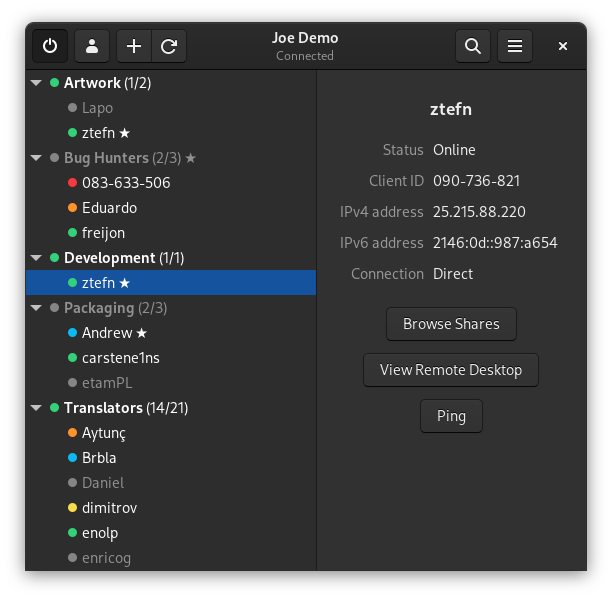
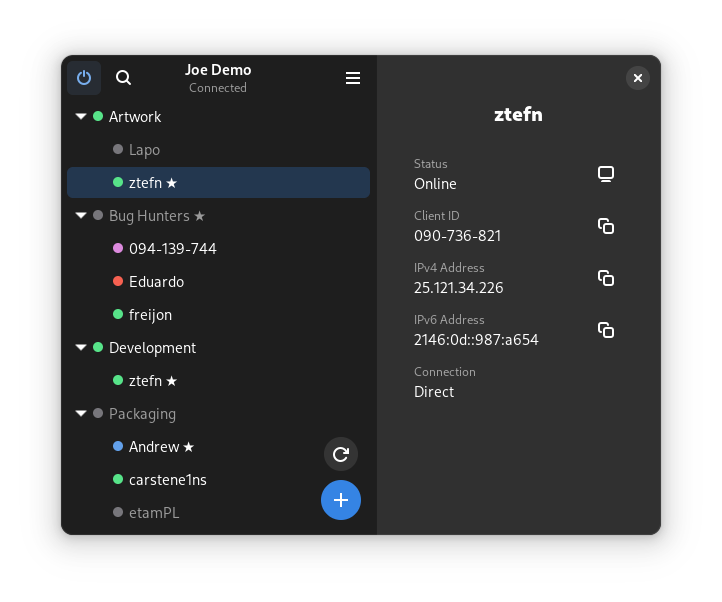
Add release 1.5.0

diff --git a/_posts/2024-07-20-release150.md b/_posts/2024-07-20-release150.md
@@ -1,0 +1,49 @@
+---
+title: Haguichi 1.5.0 Released
+date: 2024-07-20T14:00:00+0200
+author: ztefn
+layout: post
+permalink: /news/release150/
+tags: ['15', commands, indicator, keyboard-shortcut, notifications, porting, release, translation]
+---
+Haguichi 1.5.0 has been rebuild completely from the ground up featuring a redesigned user interface that takes advantage of <a href="https://docs.gtk.org/gtk4/" target="_blank">GTK 4</a> and <a href="https://gnome.pages.gitlab.gnome.org/libadwaita/" target="_blank">libadwaita</a>. The main window flaunts an <a href="https://gnome.pages.gitlab.gnome.org/libadwaita/doc/main/class.OverlaySplitView.html" target="_blank">AdwOverlaySplitView</a> to display the network list and sidebar alongside each other or the sidebar as an overlay when the available width is very small. The sidebar itself received an improved layout based on <a href="https://gnome.pages.gitlab.gnome.org/libadwaita/doc/main/class.ActionRow.html" target="_blank">AdwActionRows</a>.
+
+
+Furthermore, this version gained support for <a href="https://gnome.pages.gitlab.gnome.org/libadwaita/doc/main/property.StyleManager.color-scheme.html" target="_blank">color schemes</a>, offering the choice between dark (the current default) and light color schemes or to dynamically follow the system preferred color scheme.
+
+{% include slider.html align="center" position="68" width="722" height="602" image1_src="/resources/150-main-window-connected-dark.png" image1_srcset="/resources/150-main-window-connected-dark-2x.png 2x" image1_alt="Dark" image2_src="/resources/150-main-window-connected-light.png" image2_srcset="/resources/150-main-window-connected-light-2x.png 2x" image2_alt="Light" caption="Dark and light color schemes." %}
+
+## Network List
+
+The network list has been ported from the deprecated <a href="https://docs.gtk.org/gtk4/class.TreeView.html" target="_blank">GtkTreeView</a> to the newfangled <a href="https://docs.gtk.org/gtk4/class.ListView.html" target="_blank">GtkListView</a>. Buttons to refresh the network list and add networks are now overlaid in the bottom right corner.
+
+When you search the network list, it is now possible to use multiple search terms by separating them with a <kbd>⎵</kbd> (space) or <kbd>+</kbd> (plus sign) in order to find only results matching **both** terms and by using a <kbd>,</kbd> (comma) to find results matching **either** term. If no results are found, a friendly message is now displayed instead of an empty network list.
+
+## Preferences
+
+Preferences are now implemented using <a href="https://gnome.pages.gitlab.gnome.org/libadwaita/doc/main/class.PreferencesWindow.html" target="_blank">AdwPreferencesWindow</a>, making all options searchable as well. Additionally, more actions regarding the Hamachi configuration have been moved to the preferences window, like changing the nickname and saving or restoring backups. In here you will also find the fancy new style selector to choose your desired color scheme.
+
+Commands can now be easily reordered using drag and drop. And when you create or edit a command, you can press an info button to display all command variables that you can use.
+
+<p class="center-text"><a class="button" href="/screenshots/#preferences">View preferences screenshots</a></p>
+
+## Quality of Life Enhancements
+
+* The online and total member count in the sidebar for selected networks now takes the client itself also into account.
+* Networks are now automatically selected immediately after you create or join them.
+* Hamachi is now automatically restarted if the `hamachi set-pass` command hangs when changing the network password.
+
+## Other Changes
+
+* Created new "Change Access" dialog for networks to set lock and approval mode combined.
+* Now making use of <a href="https://gnome.pages.gitlab.gnome.org/libadwaita/doc/main/class.Toast.html" target="_blank">Toasts</a> for any in-app notifications.
+* Utilized <a href="https://docs.gtk.org/gtk4/class.Builder.html#gtkbuilder-ui-definitions" target="_blank">GtkBuilder UI definitions</a> to describe nearly all interface objects and eliminate lots of boilerplate code.
+* Reimplemented indicator to communicate with the <a href="https://freedesktop.org/wiki/Specifications/StatusNotifierItem/" target="_blank"><abbr title="StatusNotifierItem">SNI</abbr> D-Bus interface</a> directly and drop dependency on appindicator libraries that <a href="https://github.com/AyatanaIndicators/libayatana-appindicator/issues/22" target="_blank">don't support GTK 4</a>.
+* Implemented <a href="https://libportal.org/class.Portal.html" target="_blank">XdpPortal</a> to request permission to run in the background and to set background status when doing so.
+* Renamed `--hidden` command line option to `--background` or `-b` for short.
+* Changed accelerator to open preferences to <kbd>Control</kbd>+<kbd>,</kbd> following the <a href="https://developer.gnome.org/hig/reference/keyboard.html" target="_blank">GNOME standard for keyboard shortcuts</a>.
+* Changed default network list update interval to 30 seconds.
+* Added support for <a href="http://facebook.github.io/zstd/" target="_blank"><abbr title="Zstandard">zstd</abbr></a> compressed tar archives when saving and restoring configuration backups.
+* Added line `StartupNotify=true` to .desktop file so that a spinning cursor is shown on launch.
+* Now using standard GLib functions for message logging so that important errors are written to the system logs.
+* Updated Brazilian Portuguese, Dutch, Japanese, Lithuanian, Spanish and Ukrainian translations.

diff --git a/tips-and-tricks.md b/tips-and-tricks.md
@@ -35,14 +35,6 @@ order: 5
   </tr>
   <tr>
     <td>
-      <code>--license</code>
-    </td>
-    <td>
-      Show license and exit
-    </td>
-  </tr>
-  <tr>
-    <td>
       <code>-d</code>, <code>--debug</code>
     </td>
     <td>
@@ -51,10 +43,10 @@ order: 5
   </tr>
   <tr>
     <td>
-      <code>--hidden</code>
+      <code>-b</code>, <code>--background</code>
     </td>
     <td>
-      Start with hidden window
+      Run in background
     </td>
   </tr>
   <tr>
@@ -120,7 +112,7 @@ order: 5
   </tr>
   <tr>
     <td>
-      <kbd>Ctrl</kbd>+<kbd>P</kbd>
+      <kbd>Ctrl</kbd>+<kbd>,</kbd>
     </td>
     <td>
       Show preferences
@@ -314,7 +306,7 @@ All available variables are:
 </table>
 
 <h3 id="customize-network-list">Customizing the Network List{% include anchor.html slug='customize-network-list' %}</h3>
-The possibilities on how to display the members in your network list are endless, because it’s template based. There are four templates (<b>member-template-large</b>, <b>member-template-small</b>, <b>network-template-large</b> and <b>network-template-small</b>). For markup you can use <a href="https://docs.gtk.org/Pango/pango_markup.html#pango-markup" target="_blank">Pango</a> (HTML like) syntax and for linebreaks simply use <strong>&lt;br&gt;</strong>. All available variables are:
+The possibilities on how to display the members in your network list are endless, because it’s template based. There are two templates, <b>member-template</b> and <b>network-template</b>. For markup you can use <a href="https://docs.gtk.org/Pango/pango_markup.html#pango-markup" target="_blank">Pango</a> (HTML like) syntax and for linebreaks simply use <strong>&lt;br&gt;</strong>. All available variables are:
 
 #### Network
 

diff --git a/_screenshots/main-window.md b/_screenshots/main-window.md
@@ -5,12 +5,12 @@ order: 1
 ---
 <div class="row">
   <div class="col">
-    <img src="/resources/main-window-connected-firstrun.png" srcset="/resources/main-window-connected-firstrun-2x.png 2x" alt="Main Window Connected Firstrun" width="612" height="599" tabindex="0" />
+    <img src="/resources/main-window-connected-firstrun.png" srcset="/resources/main-window-connected-firstrun-2x.png 2x" alt="Main Window Connected Firstrun" width="722" height="602" tabindex="0" />
   </div>
   <div class="col">
-    <img src="/resources/main-window-selected-member.png" srcset="/resources/main-window-selected-member-2x.png 2x" alt="Main Window Selected Member" width="612" height="599" tabindex="0" />
+    <img src="/resources/main-window-selected-member.png" srcset="/resources/main-window-selected-member-2x.png 2x" alt="Main Window Selected Member" width="722" height="602" tabindex="0" />
   </div>
   <div class="col">
-    <img src="/resources/main-window-selected-network.png" srcset="/resources/main-window-selected-network-2x.png 2x" alt="Main Window Selected Network" width="612" height="599" tabindex="0" />
+    <img src="/resources/main-window-selected-network.png" srcset="/resources/main-window-selected-network-2x.png 2x" alt="Main Window Selected Network" width="722" height="602" tabindex="0" />
   </div>
 </div>

diff --git a/_screenshots/preferences.md b/_screenshots/preferences.md
@@ -5,13 +5,13 @@ order: 2
 ---
 <div class="row">
   <div class="col">
-    <img src="/resources/preferences-general.png" srcset="/resources/preferences-general-2x.png 2x" alt="Preferences General Tab" width="521" height="424" tabindex="0" />
+    <img src="/resources/preferences-general.png" srcset="/resources/preferences-general-2x.png 2x" alt="Preferences General Tab" width="762" height="698" tabindex="0" />
   </div>
   <div class="col">
-    <img src="/resources/preferences-commands.png" srcset="/resources/preferences-commands-2x.png 2x" alt="Preferences Commands Tab" width="521" height="424" tabindex="0" />
+    <img src="/resources/preferences-commands.png" srcset="/resources/preferences-commands-2x.png 2x" alt="Preferences Commands Tab" width="762" height="698" tabindex="0" />
   </div>
   <div class="col">
-    <img src="/resources/preferences-desktop.png" srcset="/resources/preferences-desktop-2x.png 2x" alt="Preferences Desktop Tab" width="521" height="424" tabindex="0" />
+    <img src="/resources/preferences-desktop.png" srcset="/resources/preferences-desktop-2x.png 2x" alt="Preferences Desktop Tab" width="762" height="698" tabindex="0" />
   </div>
 </div>
 

diff --git a/_sections/haguichi.md b/_sections/haguichi.md
@@ -7,8 +7,8 @@ order: 1
 <p>Haguichi is free and open source software licensed under <a href="https://www.gnu.org/licenses/gpl-3.0.html" target="_blank">GPLv3</a>. Written in <a href="https://vala.dev" target="_blank">Vala</a> and using <a href="https://www.gtk.org" target="_blank">GTK</a> as widget toolkit, Haguichi provides a user friendly <abbr title="Graphical user interface">GUI</abbr> to control the <a href="https://vpn.net" target="_blank">Hamachi</a> client on Linux.</p>
 <div class="row">
   <div class="col"><a class="button" href="/download/">Download now</a></div>
-  <div class="col"><a href="/news/release146/">Version 1.4.6 release notes</a></div>
+  <div class="col"><a href="/news/release150/">Version 1.5.0 release notes</a></div>
 </div>
 <div>
-  <img src="/resources/teaser.png" srcset="/resources/teaser-2x.png 2x" alt="Main Window" class="aligncenter" width="614" height="200" />
+  <img src="/resources/teaser.png" srcset="/resources/teaser-2x.png 2x" alt="Main Window" class="aligncenter" width="680" height="240" />
 </div>

diff --git a/_sections/customizable-commands.md b/_sections/customizable-commands.md
@@ -8,5 +8,5 @@ order: 3
     <p>Haguichi allows you to create your own specialized commands to run on your network peers.</p>
     <p><a class="button" href="/tips-and-tricks/#command-variables">View all variables</a></p>
   </div>
-  <div class="col image"><img src="/resources/edit-command-dialog.png" srcset="/resources/edit-command-dialog-2x.png 2x" alt="Edit Command Dialog" width="523" height="291" /></div>
+  <div class="col image"><img src="/resources/edit-command-dialog.png" srcset="/resources/edit-command-dialog-2x.png 2x" alt="Edit Command Dialog" width="562" height="414" /></div>
 </div>

diff --git a/_downloads/source-tarball.md b/_downloads/source-tarball.md
@@ -2,4 +2,4 @@
 title: Source Tarball
 order: 9
 ---
-To build Haguichi from source download the <a href="https://launchpad.net/haguichi/1.4/1.4.6/+download/haguichi-1.4.6.tar.xz" target="_blank">source tarball</a> and extract it. Open the text file named <b>INSTALL.md</b> and follow the instructions within.
+To build Haguichi from source download the <a href="https://launchpad.net/haguichi/1.5/1.5.0/+download/haguichi-1.5.0.tar.xz" target="_blank">source tarball</a> and extract it. Open the text file named <b>INSTALL.md</b> and follow the instructions within.

diff --git a/_sections/network-list.md b/_sections/network-list.md
@@ -12,5 +12,5 @@ order: 6
       <li><b>Collapse</b> networks that you want to keep out of the way.</li>
     </ul>
   </div>
-  <div class="col image" style="flex: min-content;"><img src="/resources/main-window-search.png" srcset="/resources/main-window-search-2x.png 2x" alt="Main Window Search" width="612" height="599" /></div>
+  <div class="col image" style="flex: min-content;"><img src="/resources/main-window-search.png" srcset="/resources/main-window-search-2x.png 2x" alt="Main Window Search" width="722" height="602" /></div>
 </div>

diff --git a/_screenshots/shortcuts-window.md b/_screenshots/shortcuts-window.md
@@ -5,6 +5,6 @@ order: 4
 ---
 <div class="row">
   <div class="col">
-    <img src="/resources/shortcuts-window.png" srcset="/resources/shortcuts-window-2x.png 2x" alt="Shortcuts Window" width="750" height="502" />
+    <img src="/resources/shortcuts-window.png" srcset="/resources/shortcuts-window-2x.png 2x" alt="Shortcuts Window" width="806" height="536" />
   </div>
 </div>

diff --git a/_screenshots/about-dialog.md b/_screenshots/about-dialog.md
@@ -5,6 +5,6 @@ order: 5
 ---
 <div class="row">
   <div class="col">
-    <img src="/resources/about-dialog.png" srcset="/resources/about-dialog-2x.png 2x" alt="About Dialog" width="476" height="394" />
+    <img src="/resources/about-dialog.png" srcset="/resources/about-dialog-2x.png 2x" alt="About Dialog" width="482" height="651" />
   </div>
 </div>

diff --git a/_post_tags/15.md b/_post_tags/15.md
@@ -1,0 +1,4 @@
+---
+title: 1.5
+layout: tag
+---
